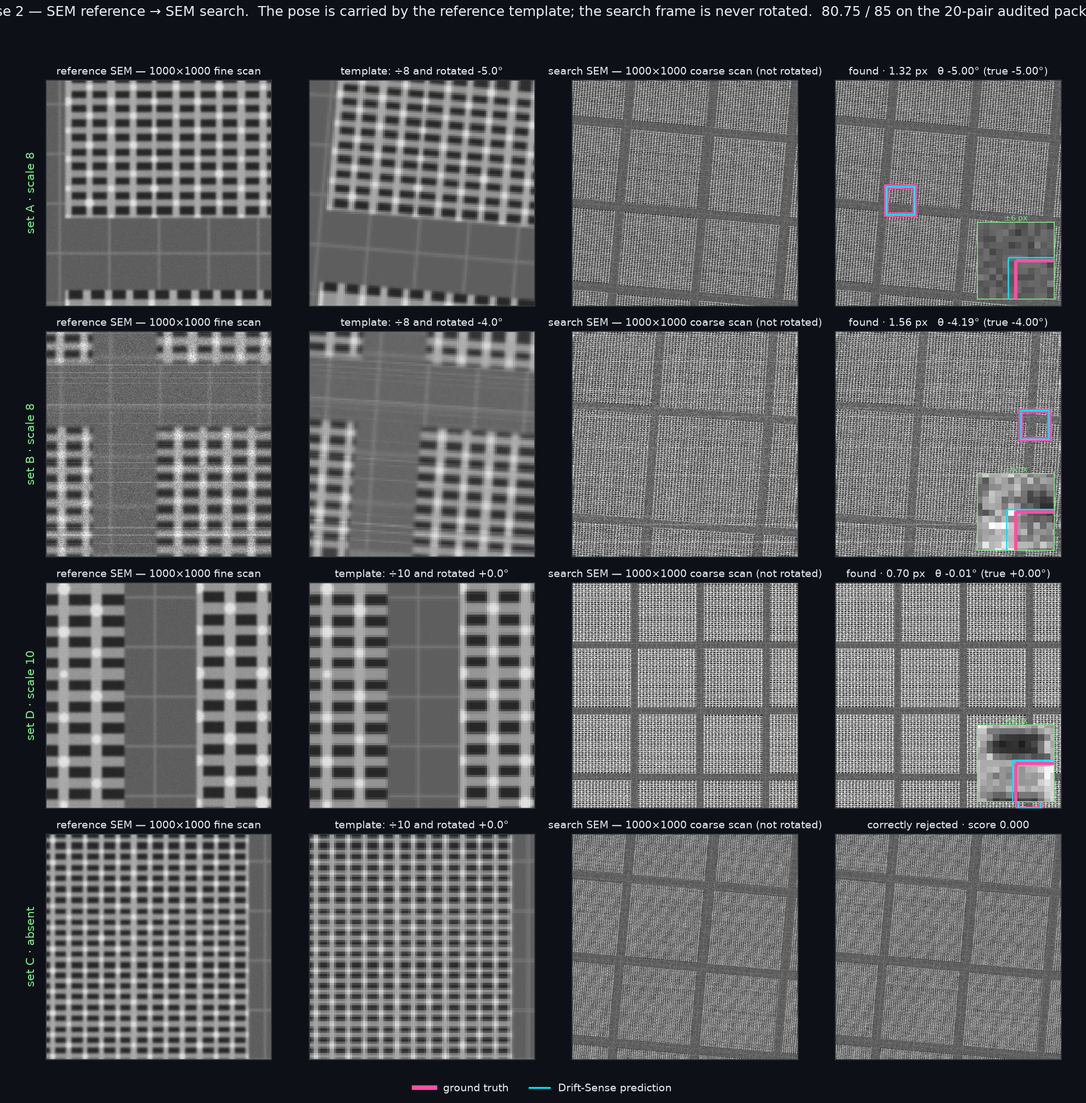
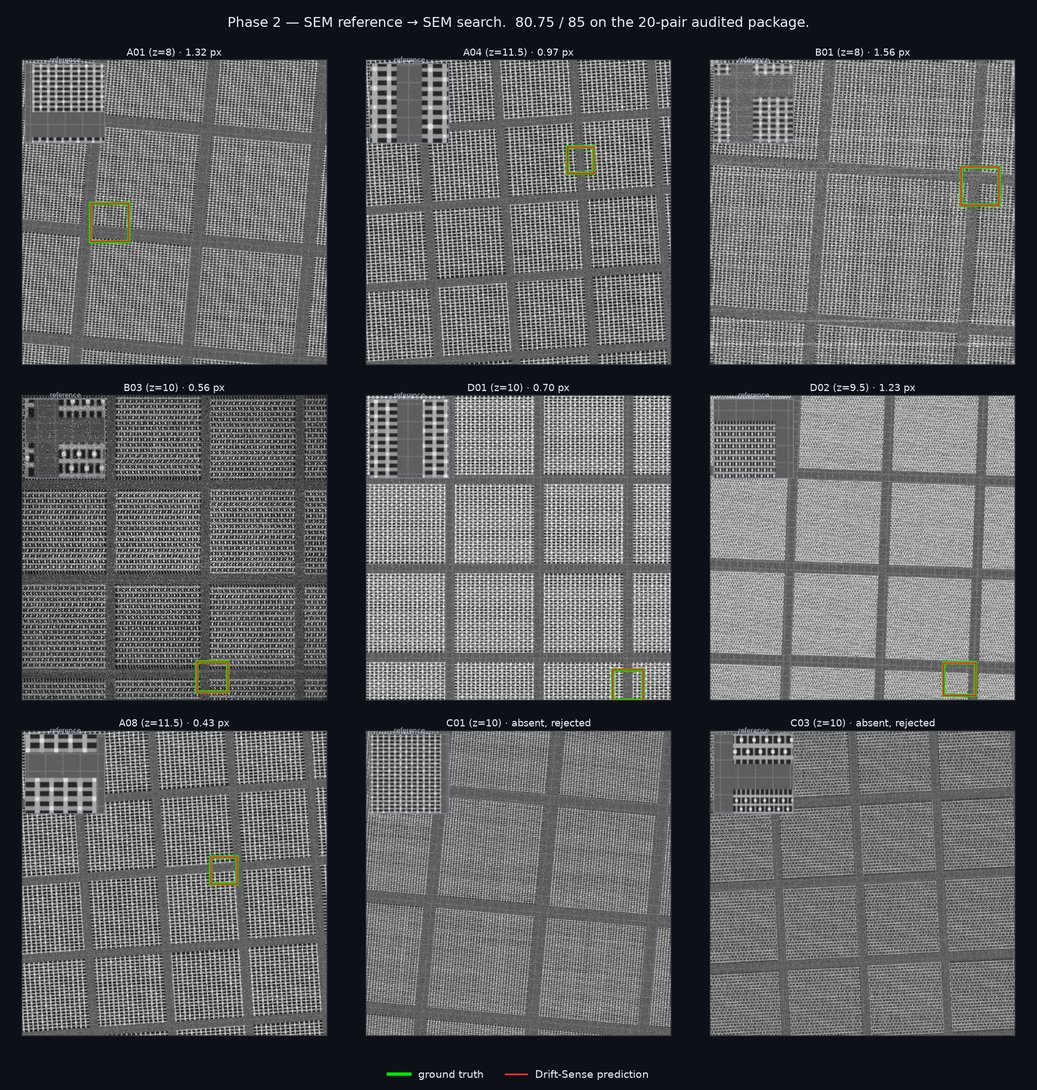
3x3 result grids at the top of each phase README
Each phase folder gets one figure of its own, at the top of its own README.
Nine real pairs per grid: ground truth in green, this code's prediction in red,
the reference image inset top-left of every tile. The boxes are read from an
actual predictions.csv, so where only green shows, the two agree to within the
line width.

Phase 3 samples three pairs per severity tier (nominal, medium, harsh), each
tier contributing two matches and one absent site. Phase 2 samples across sets
A, B, D and two absent C pairs. Pairs whose match sits within 140 px of a frame
edge are skipped for the present tiles, because a clipped rectangle reads as a
bad answer rather than a tight one.

Also removes an incorrect sentence from phase_2/README.md. It claimed the Phase
2 search frame is never rotated and that the pose is carried by the reference
template. That is true of the organizers' generator (generator/src/pipeline.py
applies no rotation at all) but not of the package these figures are drawn
from: driftsense/generate.py:401 warps the canvas into the search frame through
search_affine with pose.rotation_deg, so those search images are rotated. The
earlier claim cited make_template, which lives in phase2_audit.py -- the
baseline NCC scorer, not the data generator. No replacement claim is made.

Nothing outside the two phase READMEs and their two figures is touched.

diff --git a/phase_2/README.md b/phase_2/README.md
@@ -1,5 +1,13 @@
 # Phase 2 — SEM reference → SEM search
 
+![Phase 2 results](results.png)
+
+*Nine real pairs. Ground truth in **green**, this code's prediction in **red**,
+with the reference image inset top-left of each tile. Boxes come from an actual
+`predictions.csv`, not an illustration; where only green is visible the two
+agree to within the line width.*
+
+
 Locate a high-resolution **reference** patch inside a low-resolution **search**
 frame of a repeating semiconductor layout, and report where it is, how it is
 rotated and scaled, and whether it is there at all.
@@ -158,17 +166,9 @@ is the measured value.
 
 ## 7. Results
 
-![Phase 2 results](results.png)
-
 *Every panel is an original image, and the boxes come from this code's actual
 `predictions.csv`. Ground truth is the thick pink box, the prediction the thin
 cyan one, with a ±6 px inset of the box corner where the two are separable.*
-
-**The search frame is never rotated in Phase 2.** The pose is carried on the
-reference side: the matcher downscales the reference by `z` and rotates *that
-template* by `theta` before correlating it against an unrotated search frame
-(`make_template`). Column 2 shows the template the matcher actually uses, which
-is why it is the panel that tilts.
 
 The 20-pair audited package (sets A/B/C/D), scored on the published rubric.
 Efficiency (5) and the written analysis (10) are not measurable locally, so the

diff --git a/phase_3/README.md b/phase_3/README.md
@@ -1,5 +1,13 @@
 # Phase 3 — CAD reference → SEM search
 
+![Phase 3 results](results.png)
+
+*Nine real pairs, three per severity tier. Ground truth in **green**, this
+code's prediction in **red**, with the rendered CAD reference inset top-left of
+each tile. Boxes come from an actual `predictions.csv`; where only green is
+visible the two agree to within the line width.*
+
+
 Locate a **GDSII design** inside a **1000 × 1000 px SEM capture** taken at
 10 nm/px, and report where it is, how it is rotated and scaled, and whether it
 is there at all.
@@ -210,8 +218,6 @@ Note that step 1 and 2 use no neural network at all — only OpenCV and NumPy
 geometry. The checkpoint is used by the fallback path.
 
 ## 8. Results
-
-![Phase 3 results](results.png)
 
 *Every panel is an original image. The CAD panels are drawn from the reference
 `.gds` the pairs file names, the search frames are the generator's own
